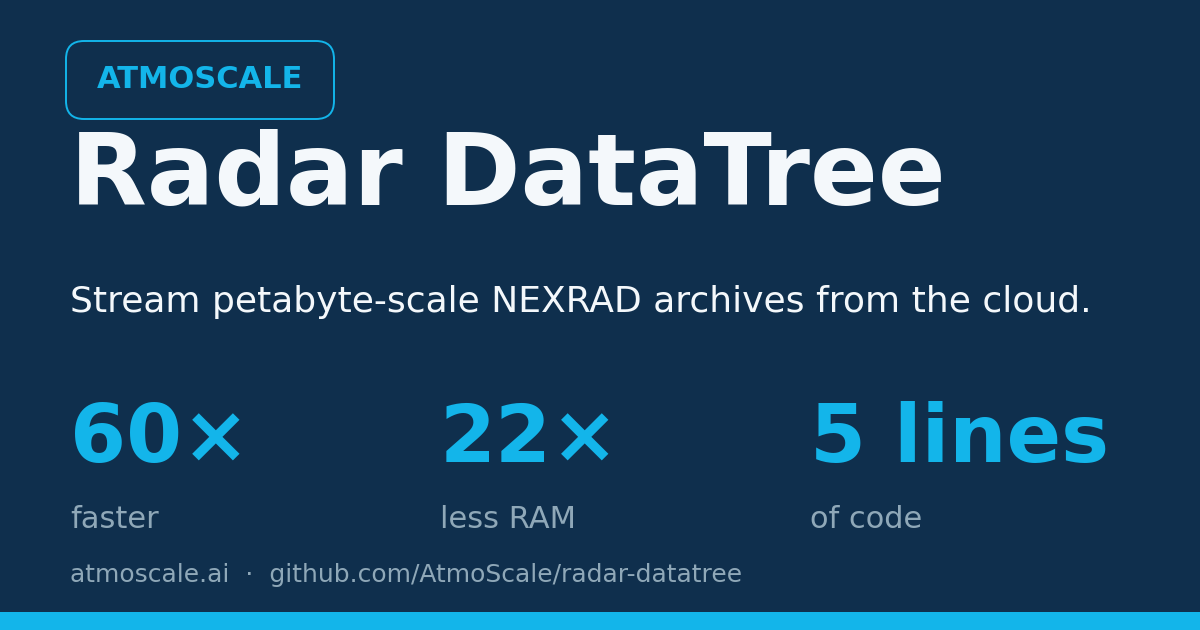
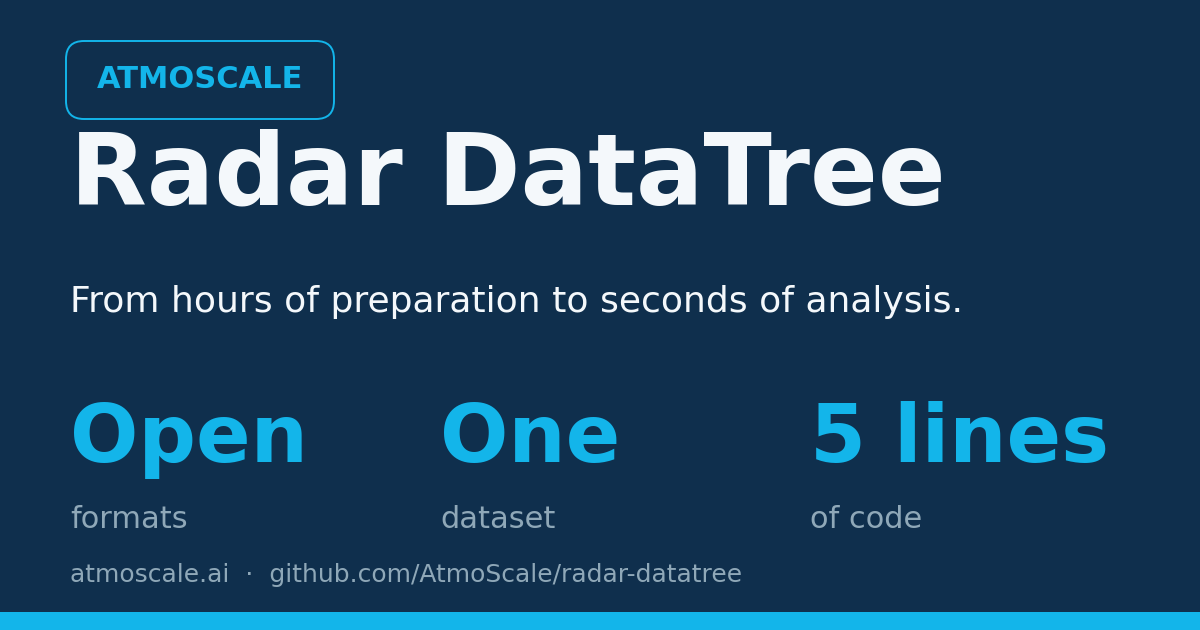
Describe performance qualitatively instead of quoting benchmark numbers (#52a)
The homepage advertised "60× faster, 22× less RAM, 100 TB queryable from a
laptop" and "no downloads, no decoders, no waiting". Re-running the benchmark
showed every one of those needed work, and the fix is not a better number —
it is not putting an environment-dependent number on a banner at all.

Six runs of the same notebook on one machine gave 43×, 50.8×, 65×, 103×,
125×, 145×. That spread is network variance, not a property of the software,
so any figure we print is really a statement about our laptop's S3 throughput
that afternoon. docs/tutorials.md separately claimed "~6 min vs ~10 s", so the
site also contradicted itself.

The site now says what is invariably true — hours of preparation become
seconds of analysis — and Notebook 3 measures the actual ratio on the reader's
machine and prints it. Wording follows atmoscale.ai ("From hours of
preparation to seconds of analysis"), so both sites read as one voice.

"22× less RAM" was never a memory measurement. It is data_reduction, a byte
ratio of decoded volumes against streamed chunks, stable to four decimals
because it is structural rather than environmental — and it uses a nominal
4:1 Level II compression assumption. Note that atmoscale.ai quotes "5.8× less
data", the *wire* ratio for the same benchmark; ours was the decoded ratio.
Both are now retired from the banner and explained in the glossary instead.

"100 TB queryable from a laptop" understated the logical size (Notebook 1
[…]

diff --git a/scripts/generate_social_card.py b/scripts/generate_social_card.py
@@ -84,7 +84,7 @@ def render(out_paths: list[Path]) -> None:
     ax.text(
         0.7,
         3.45,
-        "Stream petabyte-scale NEXRAD archives from the cloud.",
+        "From hours of preparation to seconds of analysis.",
         ha="left",
         va="top",
         fontname=body,
@@ -94,8 +94,8 @@ def render(out_paths: list[Path]) -> None:
     )
 
     metrics = [
-        ("60×", "faster"),
-        ("22×", "less RAM"),
+        ("Open", "formats"),
+        ("One", "dataset"),
         ("5 lines", "of code"),
     ]
     base_x = 0.7

diff --git a/docs/glossary.md b/docs/glossary.md
@@ -89,3 +89,35 @@ Zarr v3
   independently compressed chunks; clients fetch only the chunks needed for
   a given query.
 ```
+
+(how-big-is-the-archive)=
+## How big is the archive?
+
+Five different numbers get called "size", and they differ by orders of magnitude. Quoting the
+wrong one is the easiest way to mislead — so here is what each means for `nexrad-arco/KLOT`.
+
+**Logical size** — what `dt.nbytes` reports: every array's uncompressed extent, as if you
+materialized the whole archive in memory. Notebook 1 prints **>100 TB for KLOT alone**, and it
+grows with every volume the radar completes. It is the honest answer to "how much data is
+addressable", and a meaningless answer to "how much storage does this need".
+
+**Compressed source size** — the bytes of the original NEXRAD Level II objects, which gzip at
+roughly 4:1, so their stored footprint is far below the logical size. (The ARCO chunks themselves
+are stored uncompressed, so for them bytes on the wire equal bytes in memory.)
+
+**Materialized size** — what a *native* ARCO copy occupies once decoded, harmonized and
+rechunked. This is real duplicated storage, and it is the cost virtualization avoids.
+
+**Virtual reference size** — what a repo like `KLOT-lowsweeps` occupies. Its chunks are byte-range
+references into objects that already exist, so it re-indexes the archive rather than copying it.
+Notebook 2 shows `session.chunk_type(...)` reporting `ChunkType.virtual` for exactly this reason.
+
+**Bytes transferred** — what a bounded query actually pulls over the network, and usually the only
+one a user feels. In Notebook 3's benchmark the file-based path moves ~810 MiB compressed — about
+3.2 GB once decoded — to extract the 146 MB the analysis needs; the ARCO path streams those 146 MB
+and nothing else. Note which ratio is which: the headline **22×** is the *decoded* comparison; on
+the wire the saving is nearer **5.5×**.
+
+That last contrast is the point: the advantage is **selective access**, not compression. A claim
+like "100 TB queryable from a laptop" is true only in the logical sense — the laptop never holds
+100 TB, it fetches the few hundred megabytes the query touches.

diff --git a/docs/index.md b/docs/index.md
@@ -21,14 +21,18 @@ Companion code for *Ladino-Rincón et al.* (2026, submitted to *IEEE Transaction
 ```{epigraph}
 **The problem isn't NEXRAD data. It's the infrastructure around it.**
 
-Open the full archive in five lines of Python — no downloads, no decoders, no waiting.
+Open the full archive in five lines of Python — no bulk downloads, no file-by-file decoding, no manual archive assembly.
 ```
 
 <div class="rdt-stat-bar">
-  <div class="rdt-stat"><strong>60×</strong><span>faster than file-based</span></div>
-  <div class="rdt-stat"><strong>22×</strong><span>less RAM</span></div>
-  <div class="rdt-stat"><strong>100 TB</strong><span>queryable from a laptop</span></div>
+  <div class="rdt-stat"><strong>Hours → seconds</strong><span><a href="3.QVP-Workflow-Comparison.html">preparation becomes analysis</a></span></div>
+  <div class="rdt-stat"><strong>Open formats</strong><span><a href="about.html">Zarr v3 · Icechunk · no lock-in</a></span></div>
+  <div class="rdt-stat"><strong>One dataset</strong><span><a href="1.NEXRAD-KLOT-Demo.html">every VCP and sweep, time-indexed</a></span></div>
 </div>
+
+:::{note}
+No fixed speedup is quoted here on purpose. The gap depends on your network and hardware — repeat runs of the same benchmark on one machine spanned more than a threefold range — so [Notebook 3](3.QVP-Workflow-Comparison) measures it on *your* machine and prints the result, rather than asking you to trust ours. For what "the whole archive" does and does not mean in storage terms, see [how big is the archive](glossary.md#how-big-is-the-archive).
+:::
 
 ## Choose your path
 

diff --git a/README.md b/README.md
@@ -17,7 +17,7 @@
 
 Reproducing a published radar figure used to mean downloading hours of NEXRAD Level II files, decoding them, and stitching sweeps by hand. With **radar-datatree**, it's one `xarray` call against the cloud archive.
 
-> Reproduce **[Ryzhkov et al. (2016)](https://doi.org/10.1175/JTECH-D-15-0020.1) Fig. 4** in **5 seconds** on a laptop — **60× faster, 22× less RAM** than the file-based workflow.
+> Reproduce **[Ryzhkov et al. (2016)](https://doi.org/10.1175/JTECH-D-15-0020.1) Fig. 4** on a laptop — **hours of file preparation become seconds of analysis**, reading a fraction of the bytes. [Notebook 3](https://atmoscale.github.io/radar-datatree/3.QVP-Workflow-Comparison.html) runs both workflows, asserts they agree, and measures the gap on your machine.
 
 <p>
   <a href="https://colab.research.google.com/github/AtmoScale/radar-datatree/blob/main/notebooks/1.NEXRAD-KLOT-Demo.ipynb"><img src="https://colab.research.google.com/assets/colab-badge.svg" alt="Open Notebook 1 in Colab"></a>

diff --git a/docs/tutorials.md b/docs/tutorials.md
@@ -42,7 +42,7 @@ Only need the cuts closest to the ground? Open the `KLOT-lowsweeps` **virtual re
 
 **Reproduce Ryzhkov et al. (2016): traditional vs ARCO**
 
-Compute the QVP for the May 20, 2011 KVNX MCS via the traditional file workflow vs ARCO streaming and measure the gap — **~6 min vs ~10 s** on the same bytes.
+Compute the QVP for the May 20, 2011 KVNX MCS via the traditional file workflow vs ARCO streaming, assert both produce the identical profile, and measure the gap — **hours of preparation become seconds of analysis**. The notebook re-measures on your machine rather than quoting a fixed number.
 
 +++
 [Read]{.rdt-meta-label} 7 min · [Run]{.rdt-meta-label} ~6 min · {bdg-warning}`Intermediate`
